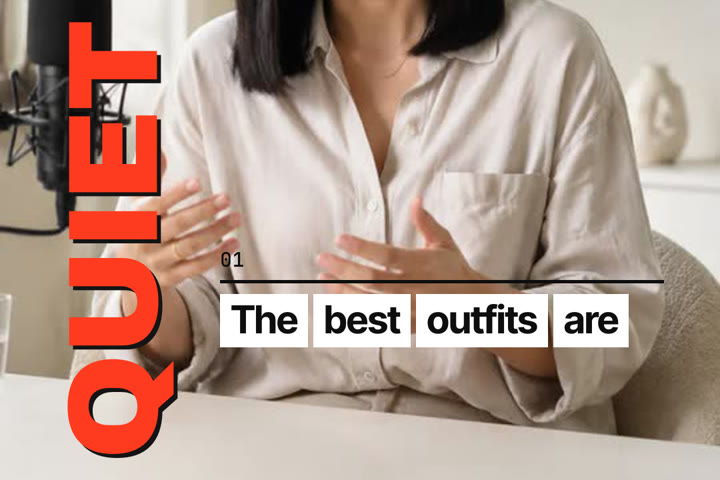
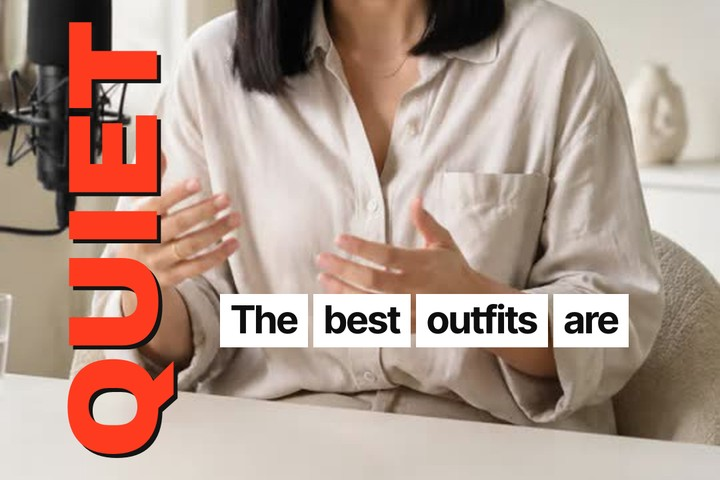
fix(captions): remove Spine number and line

diff --git a/packages/caption-scene/src/templates/spine.ts b/packages/caption-scene/src/templates/spine.ts
@@ -2,26 +2,25 @@ import type { DemoScript } from "../demo";
 import { type Frames, EASES, prog } from "../ease";
 import type { SceneCue, SceneInput, SceneProgram } from "../input";
 import { clampToSafeArea, cueDirection, fitScale, rowVisualOrder, sceneSpace } from "../layout";
-import type { Clip, Piece, ShapePiece, TextPiece } from "../scene";
+import type { Clip, Piece, TextPiece } from "../scene";
 import { rectPath } from "../shapes";
 import { sampleFrames } from "../frames";
 
 /**
  * Spine (`samples/templates/43-spine.js`): a Swiss poster. The hero runs up the left edge of the frame in red
  * capitals, reading bottom to top, rising out of a hard edge with a near-black print offset. Beside it a tidy
- * column: a cue number, a black rule that draws, and the support words on white plates that wipe in as they
- * are spoken. The column wipes away left to right at the cue's end while the hero keeps rising out of the top.
+ * column of support words on white plates that wipe in as they are spoken. The column wipes away left to right at the cue's end
+ * while the hero keeps rising out of the top.
  *
  * Geometry is the sample's, read from its layout in Chrome (`.scratch/motion-captions/tools/probe-sample.ts`):
- * the rule is 5 px at y 1290 from the column's x (330 beside a hero, 96 without) to 996; the counter sits on a
- * baseline 20 px above it; the plates start 16 px under the rule, Inter Tight Bold 58 px (72 px without a hero,
- * -0.02 em) padded 9 / 16 / 13 px, 8 px apart, packed into the fewest rows at the narrowest width that keeps
+ * the plates start at y 1311 from the column's x (330 beside a hero, 96 without) to 996, Inter Tight Bold 58 px
+ * (72 px without a hero, -0.02 em) padded 9 / 16 / 13 px, 8 px apart, packed into the fewest rows at the narrowest width that keeps
  * that count. The hero is Archivo Black at the size that makes it 660 px long (150 to 250 px, -0.01 em), its
  * bottom end at y 1560. Chrome sets the sideways capitals with their baseline 0.833 em and their cap tops
  * 0.145 em across a box whose left is `96 - 0.105 em`; the mask is that box, `size + 10` wide, from the hero's
  * top to 8 px under its bottom.
  *
- * The counter is JetBrains Mono Medium (the sample's IBM Plex Mono Medium is not bundled; two digits at 30 px).
+ * The cue number and horizontal line are omitted at the owner's request.
  */
 
 export const SPINE_DEMO: DemoScript = {
@@ -40,8 +39,8 @@ const HERO_X = 96;
 const COL_X = 330;
 const SOLO_X = 96;
 const RIGHT = 996;
-const RULE_Y = 1290;
-const RULE_H = 5;
+const ANCHOR_Y = 1290;
+const PLATE_TOP = 1311;
 const PLATE_FS = 58;
 const SOLO_FS = 72;
 const OFF = 6;
@@ -57,17 +56,11 @@ const PLATE_PAD = { top: 9, side: 16, bottom: 13 } as const;
 const PLATE_GAP = 8;
 /** Baseline of Inter Tight's `line-height: 1` box (50 of 58 px, 62 of 72 in the probe). */
 const PLATE_BASELINE_EM = 0.862;
-const COUNTER_FACE = "JetBrains Mono Medium" as const;
-const COUNTER_SIZE = 30;
-const COUNTER_LS = 0.02;
-const COUNTER_BASELINE = 1270;
 const OFFSET_COLOUR = "#141414";
 const HERO_EXIT = 180;
 const COL_EXIT = 120;
 const RISE_MS = 520;
 const WIPE_MS = 260;
-const DRAW_MS = 360;
-const TICK_MS = 300;
 
 /** The sample's balanced packing: the fewest rows, at the narrowest width (4 px steps) that still needs that many. */
 export function spineRows(widths: readonly number[], limit: number, gap = PLATE_GAP): number[][] {
@@ -100,7 +93,7 @@ export function spineHeroOffset(t: number, wordStartMs: number, cueEndMs: number
 }
 
 function buildCue(cue: SceneCue, cueNumber: number, input: SceneInput): Piece[] {
-  const space = sceneSpace(input, RULE_Y);
+  const space = sceneSpace(input, ANCHOR_Y);
   const { u } = space;
   const rtl = cueDirection(cue) === "rtl";
   const heroAt = cue.words.findIndex((word) => word.role === "hero");
@@ -144,50 +137,6 @@ function buildCue(cue: SceneCue, cueNumber: number, input: SceneInput): Piece[] 
     return { x1: exitFrames(from), x2, y1: [[from, top]], y2: [[from, bottom]] };
   };
 
-  // The rule draws left to right from the column's x (scaleX about its left end).
-  const ruleWidth = space.px(RIGHT - colX);
-  const ruleH = space.px(RULE_H);
-  const drawFrom = cue.startMs - 40 + 4;
-  const rule: ShapePiece = {
-    id: `spine:${cueNumber}:rule`,
-    kind: "shape",
-    z: band + 3,
-    fromMs: Math.max(fromMs, drawFrom),
-    toMs: colEnd,
-    track: {
-      x: [[fromMs, space.x(colX)]],
-      y: [[fromMs, space.y(RULE_Y) + ruleH / 2]],
-      sx: [[cue.startMs - 40, 0], [cue.startMs - 40 + DRAW_MS, 1, "outExpo"]],
-    },
-    clip: { x1: exitFrames(fromMs), x2: [[fromMs, space.x(RIGHT + 12)]], y1: [[fromMs, space.y(RULE_Y - 10)]], y2: [[fromMs, space.y(RULE_Y + RULE_H + 10)]] },
-    origin: { dx: 0, dy: ruleH / 2 },
-    path: rectPath(0, 0, ruleWidth, ruleH),
-    fill: { colour: input.colours.primary },
-  };
-  pieces.push(rule);
-
-  // The counter ticks in from the left (`inset(-10% x% -10% 0)`).
-  const counterText = String(cue.index + 1).padStart(2, "0");
-  const counterSize = COUNTER_SIZE * u;
-  const counterWidth = input.measure(counterText, COUNTER_FACE, counterSize, COUNTER_LS).advance + COUNTER_LS * counterSize;
-  const counterTop = space.y(COUNTER_BASELINE - 26);
-  pieces.push({
-    id: `spine:${cueNumber}:counter`,
-    kind: "text",
-    z: band + 4,
-    fromMs: Math.max(fromMs, drawFrom),
-    toMs: exitPasses(space.x(colX) + counterWidth),
-    track: { x: [[fromMs, space.x(colX)]], y: [[fromMs, space.y(COUNTER_BASELINE)]] },
-    clip: wipeClip(fromMs, cue.startMs - 40, TICK_MS, space.x(colX), space.x(colX) + counterWidth, counterTop - 0.1 * counterSize, counterTop + 1.1 * counterSize),
-    text: counterText,
-    face: COUNTER_FACE,
-    sizePx: counterSize,
-    letterSpacingEm: COUNTER_LS,
-    fill: input.colours.primary,
-    anchor: "baseline-left",
-    language: null,
-  });
-
   // --- the plates ---
   if (support.length > 0) {
     const limit = space.px(RIGHT - colX);
@@ -206,7 +155,7 @@ function buildCue(cue: SceneCue, cueNumber: number, input: SceneInput): Piece[] 
     const height = pad.top + size + pad.bottom;
     const gap = space.px(PLATE_GAP);
     const rows = spineRows(widths, limit, gap);
-    const top0 = space.y(RULE_Y + RULE_H + 16);
+    const top0 = space.y(PLATE_TOP);
     rows.forEach((row, ri) => {
       const ordered = rowVisualOrder(row.map((at) => cue.words[support[at]!]!.text), rtl ? "rtl" : "ltr").map((at) => row[at]!);
       const rowWidth = ordered.reduce((sum, at) => sum + widths[at]!, 0) + gap * (ordered.length - 1);

diff --git a/packages/caption-scene/src/spine.test.ts b/packages/caption-scene/src/spine.test.ts
@@ -20,16 +20,13 @@ const widthOf = (shape: ShapePiece) => Math.max(...shape.path.flatMap((cmd) => (
 const plateWidth = (text: string, size: number) => Math.round(fakeMeasure(text, "Inter Tight Bold", size, -0.02).advance - 0.02 * size + 32);
 
 describe("Spine geometry", () => {
-  test("the column: counter, a 5 px rule from x 330 to 996 at y 1290, plates 16 px under it", () => {
-    const rule = need<ShapePiece>(find(scene, "0:rule"));
-    const pose = evaluatePiece(rule, 1500);
-    expect(pose.x).toBeCloseTo(330, 6);
-    expect(pose.y - rule.origin!.dy).toBeCloseTo(1290, 6);
-    expect(widthOf(rule)).toBeCloseTo(666, 6);
-    const counter = need<TextPiece>(find(scene, "0:counter"));
-    expect(counter.text).toBe("01");
-    expect(evaluatePiece(counter, 1500)).toMatchObject({ x: 330, y: 1270 });
+  test("the column keeps its plates at x 330 and y 1311 without a number or line", () => {
+    for (const cue of cues) {
+      expect(find(scene, `${cue.index}:rule`)).toBeUndefined();
+      expect(find(scene, `${cue.index}:counter`)).toBeUndefined();
+    }
     const plate = need<ShapePiece>(find(scene, "0:p0"));
+    expect(evaluatePiece(plate, 1500).x).toBeCloseTo(330, 6);
     expect(evaluatePiece(plate, 1500).y).toBeCloseTo(1311, 6);
     // 9 + 58 + 13 px tall; the word's baseline 50 px into its 58 px line box.
     const height = Math.max(...plate.path.flatMap((cmd) => (cmd[0] === "Z" ? [] : [cmd[2] as number])));
@@ -53,9 +50,8 @@ describe("Spine geometry", () => {
   });
 
   test("a cue without a hero sets its column at x 96 with 72 px plates", () => {
-    const rule = need<ShapePiece>(find(scene, "1:rule"));
-    expect(evaluatePiece(rule, 3000).x).toBeCloseTo(96, 6);
-    expect(widthOf(rule)).toBeCloseTo(900, 6);
+    const plate = need<ShapePiece>(find(scene, "1:p0"));
+    expect(evaluatePiece(plate, 3000).x).toBeCloseTo(96, 6);
     expect(need<TextPiece>(find(scene, "1:t0")).sizePx).toBe(72);
     expect(find(scene, "1:hero")).toBeUndefined();
   });
@@ -105,10 +101,8 @@ describe("Spine motion", () => {
     expect(hero.toMs).toBe(cue.endMs - 10);
   });
 
-  test("the rule draws in 360 ms, the counter ticks in over 300 ms, each plate wipes in from the left on its word", () => {
+  test("each plate wipes in from the left on its word", () => {
     const cue = cues[0]!;
-    const rule = need<ShapePiece>(find(scene, "0:rule"));
-    for (const t of [cue.startMs, cue.startMs + 100, cue.startMs + 320]) expect(evaluatePiece(rule, t).sx).toBeCloseTo(EASES.outExpo(prog(t, cue.startMs - 40, 360)), 3);
     const word = cue.words[1]!;
     const plate = need<ShapePiece>(find(scene, "0:p1"));
     const left = evaluatePiece(plate, 1500).x;
@@ -122,12 +116,13 @@ describe("Spine motion", () => {
 
   test("the column wipes away left to right in the 120 ms before end - 70 ms", () => {
     const cue = cues[0]!;
-    const rule = need<ShapePiece>(find(scene, "0:rule"));
+    const plate = need<ShapePiece>(find(scene, "0:p0"));
     const from = cue.endMs - 190;
     for (const t of [from, from + 60, from + 110]) {
-      expect(evaluatePiece(rule, t).clip!.x1).toBeCloseTo(330 - 12 + EASES.in(prog(t, from, 120)) * (996 - 330 + 24), 1);
+      expect(evaluatePiece(plate, t).clip!.x1).toBeCloseTo(330 - 12 + EASES.in(prog(t, from, 120)) * (996 - 330 + 24), 1);
     }
-    expect(rule.toMs).toBe(cue.endMs - 70);
+    expect(plate.toMs).toBeLessThanOrEqual(cue.endMs - 70);
+    expect(plate.toMs).toBeGreaterThan(from);
   });
 
   test("fast speech: a word that lands inside the exit never inverts its clip", () => {
